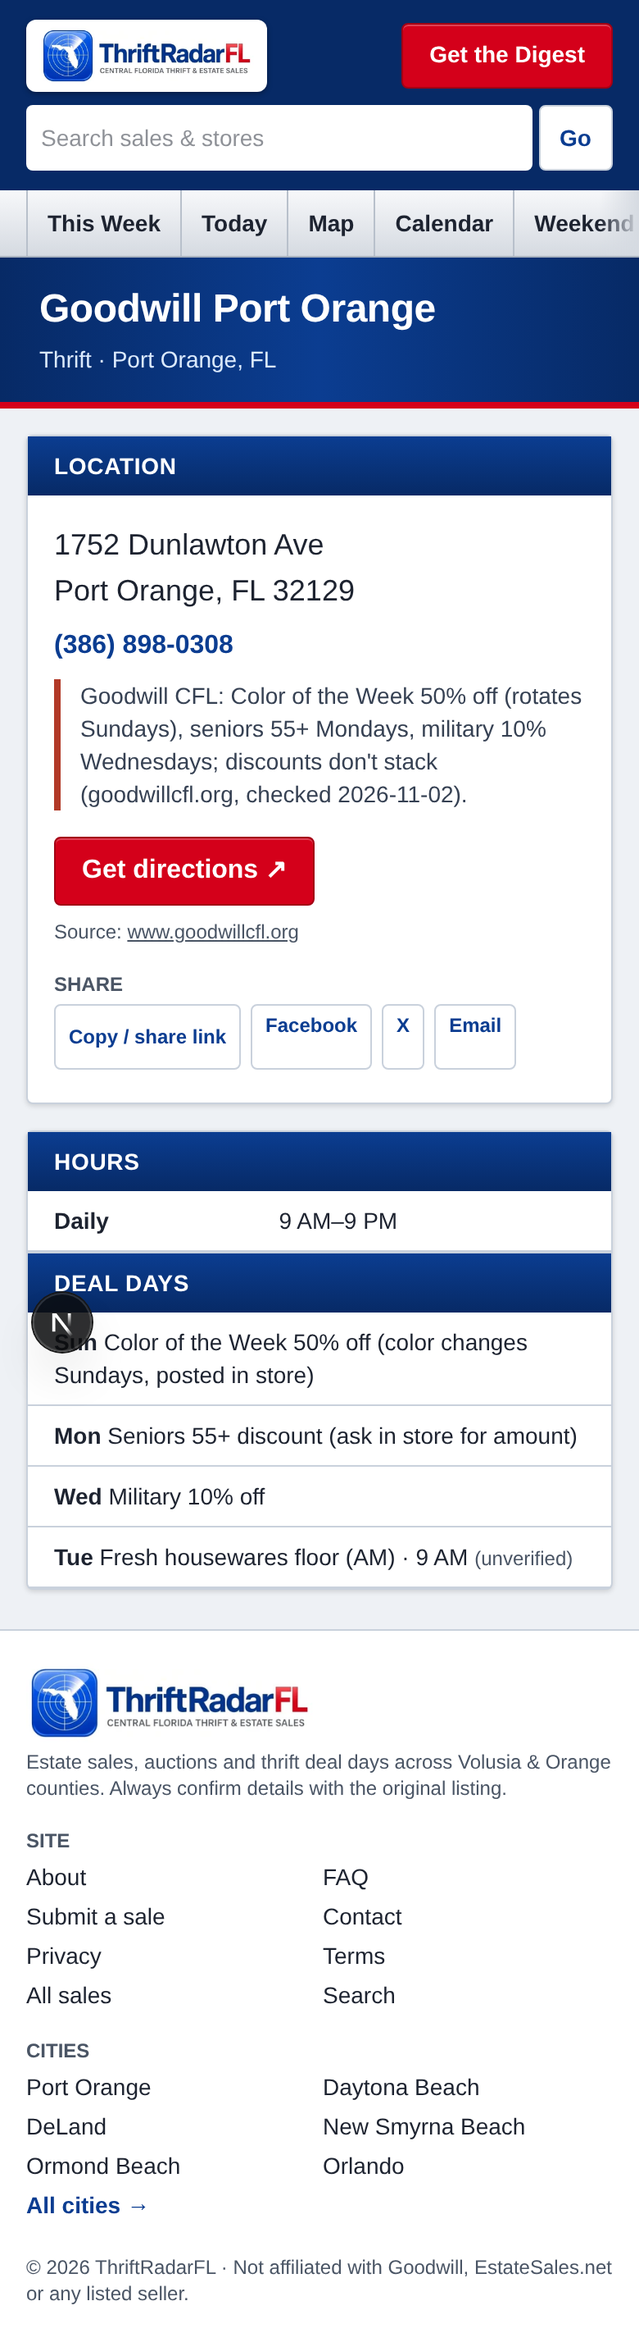
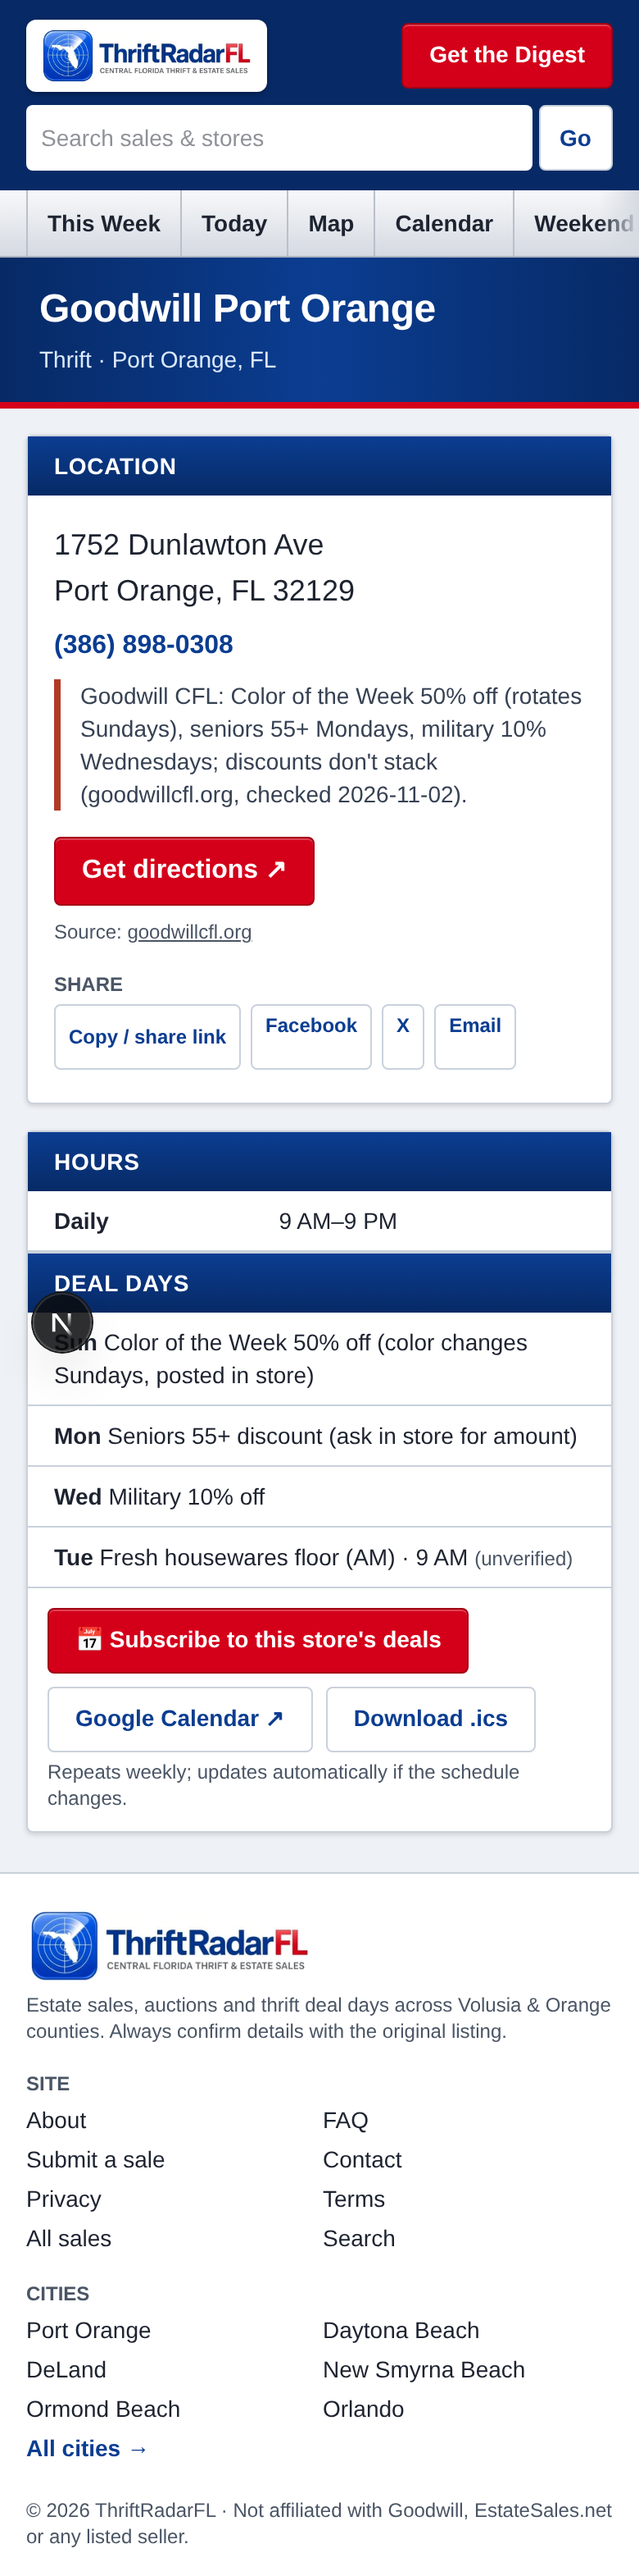
Deal-day calendars: /api/calendar/deals (all, ?venue=, ?city=, ?verified=1, ?download=1) as weekly RRULE events — all-day or 2h for timed rules, stable UIDs, unverified flagged, store address/GEO; /api/calendar?deals=1 merges sales + deals; Subscribe (webcal) / Google Calendar / .ics buttons on /dea

diff --git a/src/lib/ics.ts b/src/lib/ics.ts
@@ -1,4 +1,5 @@
-import type { Sale } from "./data";
+import type { Sale, Venue } from "./data";
+import { ruleId, DAYS, type DealRule } from "./deal-rules";
 import { SITE_URL } from "./site";
 const esc = (s: string) => s.replace(/\\/g, "\\\\").replace(/[,;]/g, (m) => "\\" + m).replace(/\r?\n/g, "\\n");
 const dt = (date: string, time: string) => `${date.replace(/-/g, "")}T${time.replace(":", "")}00`;
@@ -10,7 +11,7 @@ function fold(line: string) {
 }
 const TZ = ["BEGIN:VTIMEZONE", "TZID:America/New_York", "BEGIN:STANDARD", "DTSTART:19701101T020000", "RRULE:FREQ=YEARLY;BYMONTH=11;BYDAY=1SU", "TZOFFSETFROM:-0400", "TZOFFSETTO:-0500", "TZNAME:EST", "END:STANDARD",
   "BEGIN:DAYLIGHT", "DTSTART:19700308T020000", "RRULE:FREQ=YEARLY;BYMONTH=3;BYDAY=2SU", "TZOFFSETFROM:-0500", "TZOFFSETTO:-0400", "TZNAME:EDT", "END:DAYLIGHT", "END:VTIMEZONE"];
-export function buildIcs(sales: Sale[], calName = "ThriftRadarFL") {
+export function buildIcs(sales: Sale[], calName = "ThriftRadarFL", extra: string[] = []) {
   const stamp = new Date().toISOString().replace(/[-:]/g, "").replace(/\.\d+/, "");
   const lines = ["BEGIN:VCALENDAR", "VERSION:2.0", "PRODID:-//ThriftRadarFL//EN", "CALSCALE:GREGORIAN", "METHOD:PUBLISH", `X-WR-CALNAME:${esc(calName)}`, "X-WR-TIMEZONE:America/New_York", ...TZ];
   for (const s of sales) for (const d of s.days) lines.push("BEGIN:VEVENT", `UID:${s.slug}-${d.date}@thriftradarfl`, `DTSTAMP:${stamp}`,
@@ -18,7 +19,33 @@ export function buildIcs(sales: Sale[], calName = "ThriftRadarFL") {
     `SUMMARY:${esc(s.title + (d.discountPct ? ` (${d.discountPct}% off)` : ""))}`, `LOCATION:${esc(`${s.city}, FL ${s.zip}`.trim())}`,
     `DESCRIPTION:${esc(`Payment: ${s.paymentMethods.join(", ")}\nDetails: ${SITE_URL}/sales/${s.slug}${s.sourceUrl ? `\nOriginal listing: ${s.sourceUrl}` : ""}`)}`,
     `URL:${SITE_URL}/sales/${s.slug}`, ...(s.lat && s.lng ? [`GEO:${s.lat};${s.lng}`] : []), "END:VEVENT");
-  lines.push("END:VCALENDAR");
+  lines.push(...extra, "END:VCALENDAR");
   return lines.map(fold).join("\r\n") + "\r\n";
 }
 export const icsHeaders = (filename: string, download = true) => ({ "Content-Type": "text/calendar; charset=utf-8", "Cache-Control": "public, max-age=600", ...(download ? { "Content-Disposition": `attachment; filename="${filename}"` } : {}) });
+const BYDAY = ["SU", "MO", "TU", "WE", "TH", "FR", "SA"];
+const ymd = (d: Date) => d.toISOString().slice(0, 10);
+/** Next date (YYYY-MM-DD, on/after `from`) that falls on weekday `day` (0 = Sun). */
+export function nextOnOrAfter(from: string, day: number) { const d = new Date(from + "T12:00:00Z"); d.setUTCDate(d.getUTCDate() + ((day - d.getUTCDay() + 7) % 7)); return ymd(d); }
+/** Weekly recurring VEVENTs for store deal days (RRULE:FREQ=WEEKLY). Timed rules (e.g. 6:30 PM auction) get a 2-hour slot; the rest are all-day.
+ *  UID is the stable rule id, so subscribed calendars update in place when a rule changes. Unverified rules say so in the title + description. */
+export function dealEvents(rules: DealRule[], venues: Pick<Venue, "slug" | "name" | "address" | "city" | "zip" | "lat" | "lng">[], from: string): string[] {
+  const stamp = new Date().toISOString().replace(/[-:]/g, "").replace(/\.\d+/, ""); const vm = new Map(venues.map((v) => [v.slug, v])); const out: string[] = [];
+  for (const r of rules) {
+    const v = vm.get(r.venue); if (!v) continue; const date = nextOnOrAfter(from, r.day); const ds = date.replace(/-/g, "");
+    let when: string[];
+    if (r.time && /^\d{1,2}:\d{2}$/.test(r.time)) { const [h, m] = r.time.split(":").map(Number); const end = `${String(Math.min(h + 2, 23)).padStart(2, "0")}:${String(m).padStart(2, "0")}`;
+      when = [`DTSTART;TZID=America/New_York:${dt(date, r.time.padStart(5, "0"))}`, `DTEND;TZID=America/New_York:${dt(date, end)}`]; }
+    else { const n = new Date(date + "T12:00:00Z"); n.setUTCDate(n.getUTCDate() + 1); when = [`DTSTART;VALUE=DATE:${ds}`, `DTEND;VALUE=DATE:${ymd(n).replace(/-/g, "")}`, "TRANSP:TRANSPARENT"]; }
+    out.push("BEGIN:VEVENT", `UID:deal-${r.id ?? ruleId(r)}@thriftradarfl`, `DTSTAMP:${stamp}`, ...when, `RRULE:FREQ=WEEKLY;BYDAY=${BYDAY[r.day]}`,
+      `SUMMARY:${esc(`${r.label} · ${v.name}${r.verified ? "" : " (unverified)"}`)}`, `LOCATION:${esc([v.address, `${v.city}, FL ${v.zip ?? ""}`.trim()].filter(Boolean).join(", "))}`,
+      `DESCRIPTION:${esc(`Every ${DAYS[r.day]} at ${v.name}.${r.verified ? "" : "\nUnverified schedule — check signage or call ahead."}\nStore info: ${SITE_URL}/stores/${v.slug}`)}`,
+      `URL:${SITE_URL}/stores/${v.slug}`, ...(v.lat && v.lng ? [`GEO:${v.lat};${v.lng}`] : []), "CATEGORIES:Deal day", "END:VEVENT");
+  }
+  return out;
+}
+export const buildDealIcs = (rules: DealRule[], venues: Parameters<typeof dealEvents>[1], from: string, calName = "ThriftRadarFL · Deal days") => buildIcs([], calName, dealEvents(rules, venues, from));
+/** webcal:// link (opens "Subscribe" in Apple/Outlook calendars) for a feed path on this site. */
+export const webcalUrl = (path: string, site = SITE_URL) => site.replace(/^https?:\/\//i, "webcal://") + path;
+/** Google Calendar "add by URL" link for a feed path. */
+export const googleCalUrl = (path: string, site = SITE_URL) => `https://calendar.google.com/calendar/r?cid=${encodeURIComponent(webcalUrl(path, site))}`;

diff --git a/src/app/stores/[slug]/page.tsx b/src/app/stores/[slug]/page.tsx
@@ -6,6 +6,7 @@ import { DAYS } from "@/lib/deal-rules";
 import { venueJsonLd } from "@/lib/jsonld";
 import { SITE_URL } from "@/lib/site";
 import ShareButtons from "@/components/ShareButtons";
+import CalendarLinks from "@/components/CalendarLinks";
 export async function generateMetadata({ params }: { params: Promise<{ slug: string }> }) {
   const v = await getVenue((await params).slug); if (!v) return { title: "Store not found", robots: { index: false } };
   return { title: `${v.name} — hours, deal days & address`, description: `${v.name} at ${v.address}, ${v.city}, FL: hours, color-tag and half-off days.`, alternates: { canonical: `/stores/${v.slug}` } };
@@ -27,6 +28,7 @@ export default async function Store({ params }: { params: Promise<{ slug: string
         <tbody>{hours.length ? hours.map(([k, h]) => <tr key={k} className="border-b border-line"><td className="px-4 py-2 font-bold">{dayKey(k)}</td><td className="px-4 py-2">{hours12(h)}</td></tr>)
           : <tr><td className="px-4 py-3 text-gray-600">Hours not verified yet — call ahead</td></tr>}</tbody></table>
         <div className="panel-head border-t border-line">Deal days</div><ul className="text-sm">{!mine.length && <li className="px-4 py-2 text-gray-600">No deal days listed.</li>}{mine.map((r) => <li key={r.id} className="border-b border-line px-4 py-2">
-          <b>{DAYS[r.day]}</b> {r.label}{r.time && ` · ${t12(r.time)}`}{!r.verified && <span className="ml-1 text-xs text-gray-600">(unverified)</span>}</li>)}</ul></div>
+          <b>{DAYS[r.day]}</b> {r.label}{r.time && ` · ${t12(r.time)}`}{!r.verified && <span className="ml-1 text-xs text-gray-600">(unverified)</span>}</li>)}</ul>
+        {mine.length > 0 && <div className="p-3"><CalendarLinks path={`/api/calendar/deals?venue=${v.slug}`} label="this store's deals" /><p className="mt-1 text-xs text-gray-600">Repeats weekly; updates automatically if the schedule changes.</p></div>}</div>
     </div></div>);
 }

diff --git a/src/app/deals/page.tsx b/src/app/deals/page.tsx
@@ -3,6 +3,7 @@ import Link from "next/link";
 import { PageHead } from "@/components/ui";
 import { getVenues, getDealRules } from "@/lib/data";
 import { DAYS } from "@/lib/deal-rules";
+import CalendarLinks from "@/components/CalendarLinks";
 export const metadata = { title: "Deal Days — Goodwill color tags, half-off & bin restocks", description: "Weekly schedule of Goodwill color-tag days, half-off days, senior discounts and outlet bin restocks in Central Florida.", alternates: { canonical: "/deals" } };
 const order = [1, 2, 3, 4, 5, 6, 0];
 export default async function Deals() {
@@ -10,6 +11,7 @@ export default async function Deals() {
   const today = new Date().getDay();
   return (<div><PageHead title="Deal Days" sub="Color-tag days, half-off days and bin restocks by weekday" />
     <p className="mb-3 border-l-4 border-cta bg-paper p-2 text-sm"><b>Heads up:</b> schedules marked <i>unverified</i> haven&apos;t been confirmed with the store yet — check signage or call ahead.</p>
+    <div className="panel mb-4 p-3"><p className="mb-2 text-sm">Put every deal day in your phone&apos;s calendar — repeats weekly and updates when schedules change.</p><CalendarLinks path="/api/calendar/deals" label="all deal days" /></div>
     <div className="panel"><div className="panel-head">Weekly schedule</div>
       <div className="grid grid-cols-1 gap-px bg-line sm:grid-cols-7">{order.map((d) => <div key={d} className={`bg-white sm:min-h-48 ${d === today ? "ring-2 ring-cta ring-inset" : ""}`}>
         <div className="bg-paper border-b border-line px-2 py-1 text-xs font-bold text-royal">{DAYS[d]}{d === today && " · today"}</div>

diff --git a/src/app/api/calendar/route.ts b/src/app/api/calendar/route.ts
@@ -1,10 +1,13 @@
-// Subscribable feed of all upcoming sales: /api/calendar?city=deland (webcal-friendly, no download header)
-import { getSales, citySlug } from "@/lib/data";
-import { buildIcs, icsHeaders } from "@/lib/ics";
+// Subscribable feed of all upcoming sales: /api/calendar?city=deland (webcal-friendly, no download header). &deals=1 adds weekly store deal days.
+import { getSales, getVenues, getDealRules, citySlug } from "@/lib/data";
+import { buildIcs, dealEvents, icsHeaders } from "@/lib/ics";
 export const dynamic = "force-dynamic";
 export async function GET(req: Request) {
   const city = new URL(req.url).searchParams.get("city");
   const today = new Date().toLocaleDateString("en-CA", { timeZone: "America/New_York" });
   const sales = (await getSales()).filter((s) => s.days.some((d) => d.date >= today) && (!city || citySlug(s.city) === city));
-  return new Response(buildIcs(sales, city ? `ThriftRadarFL · ${city}` : "ThriftRadarFL · Central FL sales"), { headers: icsHeaders("thriftradarfl.ics", false) });
+  let extra: string[] = [];
+  if (new URL(req.url).searchParams.get("deals") === "1") { const [venues, rules] = await Promise.all([getVenues(), getDealRules()]);
+    extra = dealEvents(rules, venues.filter((v) => !city || citySlug(v.city) === city), today); }
+  return new Response(buildIcs(sales, city ? `ThriftRadarFL · ${city}` : "ThriftRadarFL · Central FL sales", extra), { headers: icsHeaders("thriftradarfl.ics", false) });
 }

diff --git a/src/app/api/calendar/deals/route.ts b/src/app/api/calendar/deals/route.ts
@@ -1,0 +1,15 @@
+// Weekly store deal days as recurring iCal events. Subscribable: /api/calendar/deals[?city=port-orange|&venue=<slug>][&verified=1]
+// ?download=1 adds Content-Disposition (one-off import). Unknown venue → 404; unknown city → empty calendar.
+import { getVenues, getDealRules, citySlug } from "@/lib/data";
+import { buildDealIcs, icsHeaders } from "@/lib/ics";
+import { todayET } from "@/lib/cities";
+export const dynamic = "force-dynamic";
+export async function GET(req: Request) {
+  const sp = new URL(req.url).searchParams; const venue = sp.get("venue"), city = sp.get("city");
+  const [venues, rules] = await Promise.all([getVenues(), getDealRules()]);
+  if (venue && !venues.some((v) => v.slug === venue)) return new Response("Not found", { status: 404 });
+  const vs = venues.filter((v) => (!venue || v.slug === venue) && (!city || citySlug(v.city) === city)); const keep = new Set(vs.map((v) => v.slug));
+  const rs = rules.filter((r) => keep.has(r.venue) && (sp.get("verified") !== "1" || r.verified));
+  const name = venue ? `${vs[0].name} · deal days` : city ? `ThriftRadarFL · ${vs[0]?.city ?? city} deal days` : "ThriftRadarFL · Central FL deal days";
+  return new Response(buildDealIcs(rs, vs, todayET(), name), { headers: icsHeaders(`${venue ?? city ?? "thriftradarfl"}-deal-days.ics`, sp.get("download") === "1") });
+}

diff --git a/src/app/calendar/page.tsx b/src/app/calendar/page.tsx
@@ -12,7 +12,7 @@ export default async function Calendar() {
   const start = new Date(fmt(new Date()) + "T12:00:00");
   const days = Array.from({ length: 14 }, (_, i) => { const d = new Date(start); d.setDate(d.getDate() + i); return d; });
   return (<div><PageHead title="Calendar" sub="Estate sales and store deal days for the next two weeks" />
-    <p className="mb-3 text-sm">Subscribe in your calendar app: <a className="font-bold text-royal hover:underline" href="/api/calendar">/api/calendar</a> (iCal feed)</p>
+    <p className="mb-3 text-sm">Subscribe in your calendar app: <a className="font-bold text-royal hover:underline" href="/api/calendar">estate sales</a> · <a className="font-bold text-royal hover:underline" href="/api/calendar/deals">store deal days</a> · <a className="font-bold text-royal hover:underline" href="/api/calendar?deals=1">both</a> (iCal feeds)</p>
     <div className="panel"><div className="panel-head">Next 14 days</div>
       <div className="grid grid-cols-1 gap-px bg-line sm:grid-cols-7">{days.map((d, i) => {
         const iso = fmt(d); const daySales = sales.filter((s) => s.days.some((x) => x.date === iso));

diff --git a/src/components/CalendarLinks.tsx b/src/components/CalendarLinks.tsx
@@ -1,0 +1,9 @@
+import { webcalUrl, googleCalUrl } from "@/lib/ics";
+/** Subscribe (webcal), Google Calendar and one-off .ics download links for a calendar feed path. */
+export default function CalendarLinks({ path, label = "deal days" }: { path: string; label?: string }) {
+  const dl = path + (path.includes("?") ? "&" : "?") + "download=1";
+  return <div className="flex flex-wrap gap-2 text-sm">
+    <a className="btn-red" href={webcalUrl(path)}>📅 Subscribe to {label}</a>
+    <a className="btn-gray" href={googleCalUrl(path)} target="_blank" rel="noopener noreferrer">Google Calendar ↗</a>
+    <a className="btn-gray" href={dl} download>Download .ics</a></div>;
+}

diff --git a/BACKEND.md b/BACKEND.md
@@ -31,7 +31,8 @@ Deal rules source of truth for now: `src/lib/deal-rules.ts` (seeded into DB; UNV
 | GET | `/api/admin/subscribers` | admin | CSV export |
 | POST | `/api/admin/import` | admin | `{url}` → draft Sale from listing JSON-LD (not saved) |
 | GET | `/api/ics/[slug]` | – | RFC 5545 (VTIMEZONE, folding, escaping), download |
-| GET | `/api/calendar?city=` | – | subscribable feed of upcoming sales |
+| GET | `/api/calendar?city=&deals=1` | – | subscribable feed of upcoming sales (`deals=1` adds weekly deal days) |
+| GET | `/api/calendar/deals?venue=&city=&verified=1&download=1` | – | weekly store deal days as RRULE events (stable UIDs); unknown venue 404 |
 | GET | `/api/cron/digest?dry=1&from=` | `CRON_SECRET` bearer | dry-run without RESEND_API_KEY |
 | GET/POST | `/api/unsubscribe?e=&t=` | HMAC token | one-click (RFC 8058) |
 Pages: `/`, `/?city=&type=`, `/map` (keyless SVG plot), `/stores`, `/stores/[slug]`, `/sales/[slug]` (JSON-LD Event), `/deals`, `/city/[city]` ×5, `/digest`, `/digest/preview`, `/admin`, `/sitemap.xml`, `/robots.txt`.
